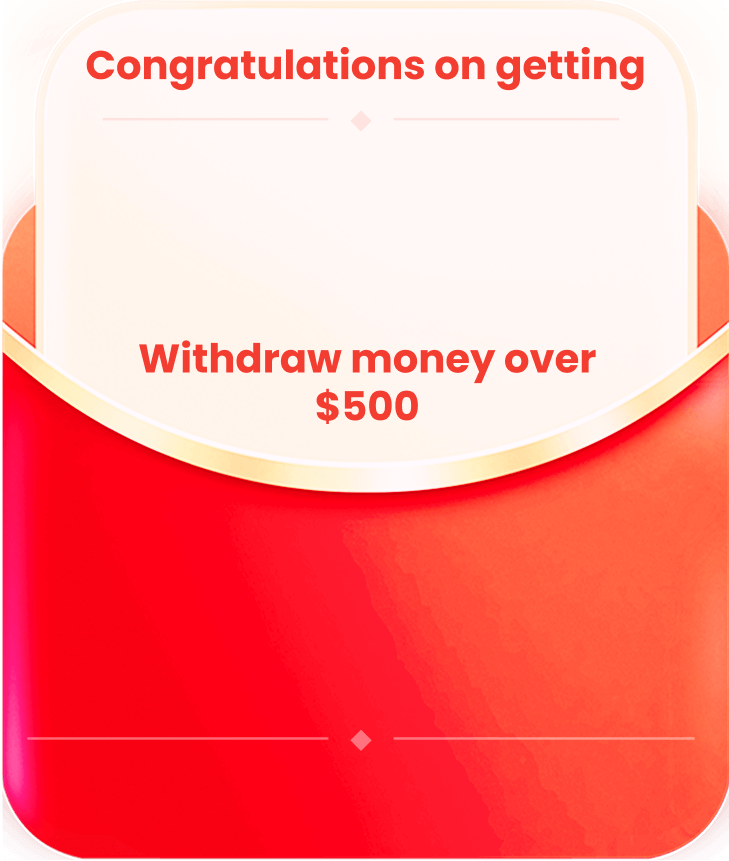
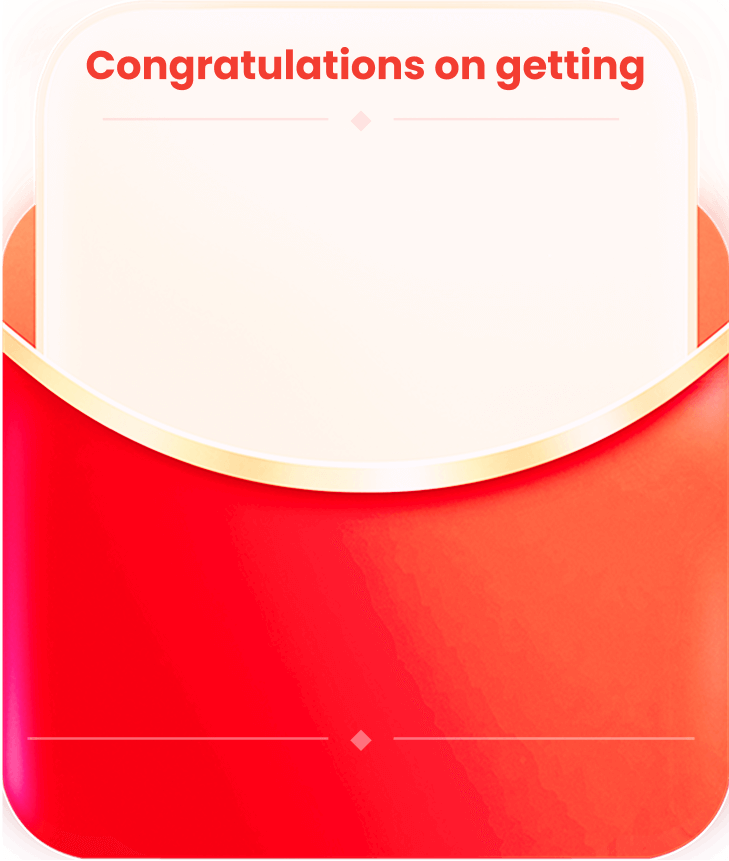
fix: [pak h5] Fix timezone issue, update envelope bg

Changed region(s): [[0.1811, 0.3926, 0.8148, 0.5134]]

diff --git a/pak-static-h5/src/components/hotpromo/spin-lucky-wheel/EnvelopeStage.vue b/pak-static-h5/src/components/hotpromo/spin-lucky-wheel/EnvelopeStage.vue
@@ -27,6 +27,7 @@
       </div>
       <div v-else class="selected-envelope">
         <span class="prize">${{ prizeList[selectedIndex]?.prize }}</span>
+        <span class="desc">Withdraw money over ${{ targetWithdrawAmount }}</span>
         <CommonButton class="withdraw-btn" @click="$emit('envelopeClick')">Go withdraw now!</CommonButton>
         <span class="remaining-time">time left: {{ remainingTime }}</span>
       </div>
@@ -44,7 +45,7 @@
 </template>
 <script setup>
 import moment from "moment";
-import { onUnmounted, ref } from "vue";
+import { computed, onUnmounted, ref } from "vue";
 import CommonButton from "./CommonButton.vue";
 import { eventapi } from "src/boot/axios";
 
@@ -57,6 +58,20 @@ const remainingTime = ref("00:00:00");
 const endTime = ref("");
 const isClaiming = ref(false);
 const timer = ref();
+const wheelNo = ref(0);
+
+const targetWithdrawAmount = computed(() => {
+  switch (wheelNo.value) {
+    case 3:
+      return 1000;
+    case 2:
+      return 600;
+    case 1:
+      return 300;
+    default:
+      return 0;
+  }
+});
 
 const delay = async (ms) => {
   return new Promise((resolve) => {
@@ -95,8 +110,9 @@ const handleEnvelopeClick = (index) => {
       delay(1000)
     ]);
 
-    envelopeStatus.value = "selected";
     endTime.value = moment.min(moment(initRes.data.wheelEndTime), moment(initRes.data.wheelResetTime));
+    wheelNo.value = initRes.data.wheelNo;
+    envelopeStatus.value = "selected";
     updateRemainingTime();
     timer.value = setInterval(updateRemainingTime, 1000);
     isClaiming.value = false;
@@ -106,8 +122,8 @@ const handleEnvelopeClick = (index) => {
 const updateRemainingTime = () => {
   let result = "00:00:00";
   if (endTime.value) {
-    const now = moment(Date.now()).tz("Asia/Karachi");
-    const _endTime = moment(endTime.value).tz("Asia/Karachi");
+    const now = moment(Date.now());
+    const _endTime = moment(endTime.value);
     const totalSeconds = _endTime.diff(now, "seconds");
     if (totalSeconds > 0) {
       const hours = Math.floor(totalSeconds / 3600);
@@ -195,6 +211,18 @@ onUnmounted(() => {
         width: 100%;
         transform: translateY(-50%);
         font-size: 50px;
+        font-weight: 900;
+        color: #f33d31;
+        text-align: center;
+      }
+
+      .desc {
+        position: absolute;
+        top: 36%;
+        left: 50%;
+        transform: translateX(-50%);
+        width: 70%;
+        font-size: 20px;
         font-weight: 900;
         color: #f33d31;
         text-align: center;

diff --git a/pak-static-h5/src/components/hotpromo/spin-lucky-wheel/WheelStage.vue b/pak-static-h5/src/components/hotpromo/spin-lucky-wheel/WheelStage.vue
@@ -262,8 +262,8 @@ const handleInviteClick = () => {
 const getRemainingTime = (endTime) => {
   let result = "00:00:00";
   if (endTime) {
-    const now = moment(Date.now()).tz("Asia/Karachi");
-    const _endTime = moment(endTime).tz("Asia/Karachi");
+    const now = moment(Date.now());
+    const _endTime = moment(endTime);
     const totalSeconds = _endTime.diff(now, "seconds");
     if (totalSeconds > 0) {
       const hours = Math.floor(totalSeconds / 3600);
@@ -297,7 +297,7 @@ const handleRecordClick = () => {
 const updateCountdownTime = () => {
   // console.log("updateCountdownTime")
   const endTime = moment(info.value.wheelEndTime);
-  const nextFreeSpinEndTime = moment().tz("Asia/Karachi").add(1, "days").startOf("day");
+  const nextFreeSpinEndTime = moment().add(1, "days").startOf("day");
   if (timer.value) {
     clearTimeout(timer.value);
   }

diff --git a/pak-static-h5/src/components/hotpromo/spin-lucky-wheel/PromoSticky.vue b/pak-static-h5/src/components/hotpromo/spin-lucky-wheel/PromoSticky.vue
@@ -54,8 +54,8 @@ const info = ref({
 const getRemainingTime = (endTime) => {
   let result = "00:00:00";
   if (endTime) {
-    const now = moment(Date.now()).tz("Asia/Karachi");
-    const _endTime = moment(endTime).tz("Asia/Karachi");
+    const now = moment(Date.now());
+    const _endTime = moment(endTime);
     const totalSeconds = _endTime.diff(now, "seconds");
     if (totalSeconds > 0) {
       const hours = Math.floor(totalSeconds / 3600);
@@ -72,7 +72,7 @@ const getRemainingTime = (endTime) => {
 const updateCountdownTime = () => {
   // console.log("updateCountdownTime")
   const endTime = moment(info.value.wheelEndTime);
-  const nextFreeSpinEndTime = moment().tz("Asia/Karachi").add(1, "days").startOf("day");
+  const nextFreeSpinEndTime = moment().add(1, "days").startOf("day");
   if (timer.value) {
     clearTimeout(timer.value);
   }

diff --git a/pak-static-h5/src/components/hotpromo/spin-lucky-wheel/WheelResultDialog.vue b/pak-static-h5/src/components/hotpromo/spin-lucky-wheel/WheelResultDialog.vue
@@ -2,17 +2,19 @@
   <q-dialog v-model="_modelValue" @hide="$emit('hide')">
     <div class="wheel-result-wrapper">
       <span class="prize">+${{ props.prize }}</span>
-      <span class="desc">Withdraw money over $500</span>
+      <span class="desc">Withdraw money over ${{ targetWithdrawAmount }}</span>
       <CommonButton class="close-btn" v-close-popup>Okay</CommonButton>
     </div>
   </q-dialog>
 </template>
 <script setup>
-import { computed } from "vue";
+import { computed, inject } from "vue";
 import CommonButton from "./CommonButton.vue";
 
 const props = defineProps(["modelValue", "prize"]);
 const emit = defineEmits(["update:modelValue", "hide"]);
+
+const targetWithdrawAmount = inject("targetWithdrawAmount");
 
 const _modelValue = computed({
   get: () => props.modelValue,

diff --git a/pak-static-h5/src/components/hotpromo/spin-lucky-wheel/HomePopup.vue b/pak-static-h5/src/components/hotpromo/spin-lucky-wheel/HomePopup.vue
@@ -65,8 +65,8 @@ const checkIsCanShowPopup = () => {
 const checkExpirationTime = () => {
   const preTimeStr = localStorage.getItem("SPIN_LUCKY_WHEEL_POPUP");
   if (preTimeStr) {
-    const currTime = moment().tz("Asia/Karachi").startOf("day");
-    const prevTime = moment(Number(preTimeStr)).tz("Asia/Karachi");
+    const currTime = moment().startOf("day");
+    const prevTime = moment(Number(preTimeStr));
     const diff = currTime.diff(prevTime, "milliseconds");
 
     if (diff > 0) {

diff --git a/pak-static-h5/src/components/hotpromo/spin-lucky-wheel/SpinLuckyWheelPromo.vue b/pak-static-h5/src/components/hotpromo/spin-lucky-wheel/SpinLuckyWheelPromo.vue
@@ -23,7 +23,7 @@ const info = ref({
   wheelStartTime: "",
   wheelEndTime: "",
   hasWithdrawn: false,
-  wheelNo: 1,
+  wheelNo: 0,
   // nextFreeSpinTime: "2025-02-14 00:00:00",
   accumulatedBonus: 0,
   availableSpin: 0,
@@ -37,8 +37,9 @@ const targetWithdrawAmount = computed(() => {
     case 2:
       return 600;
     case 1:
-    default:
       return 300;
+    default:
+      return 0;
   }
 });
 
